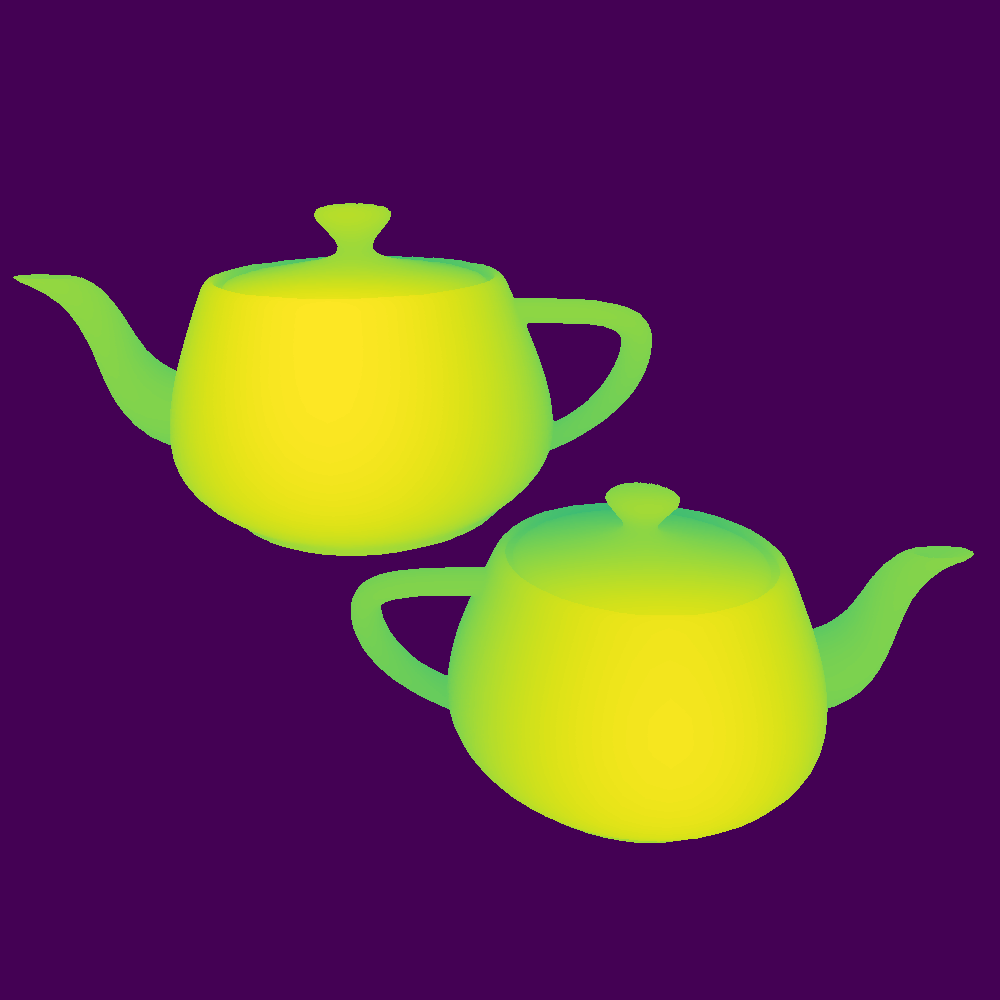
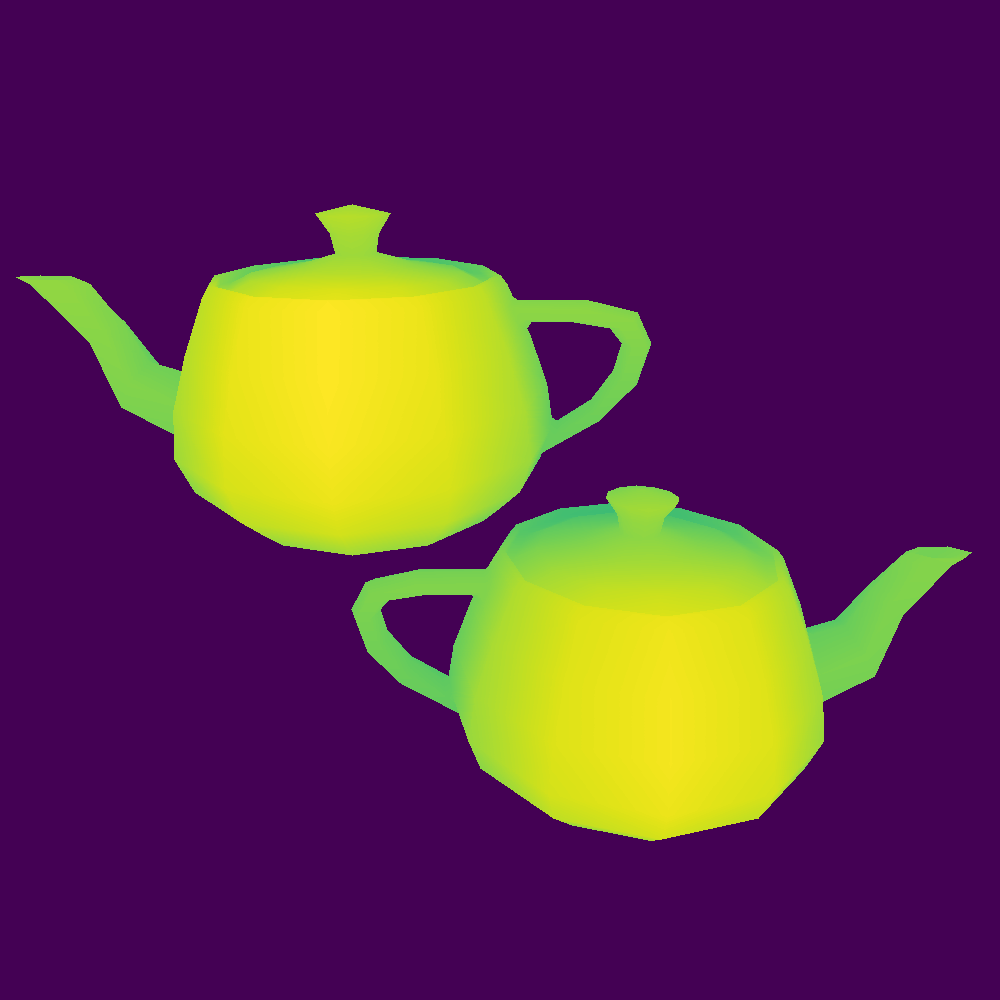
Lighting

diff --git a/objects.py b/objects.py
@@ -511,21 +511,67 @@ class PointLight:
     intensity : float | Brightness multiplier
     """
 
-    def __init__(self, pos, ambient, diffuse, specular=[1, 1, 1], intensity:float=1):
+    def __init__(self, pos, ambient, diffuse, specular=[1, 1, 1], intensity:float=1, kq=0.0019, kc=1.0, kl=0.002):
         self.specular = np.array(specular)
         self.diffuse = np.array(diffuse)
         self.ambient = np.array(ambient)
         self.pos = pos
         self.intensity = intensity
+        self.kq = kq
+        self.kc = kc
+        self.kl = kl
+        
+    def get_illumination(self, mat, camera, point, normal):
+        # Ambient
+        ambient = np.multiply(mat.ambient, self.ambient)
+
+        # Diffuse
+        light_dir = normalize(self.pos - point)
+        diffuse = np.multiply(
+            np.multiply(mat.diffuse, self.diffuse),
+            max(np.dot(normal, light_dir), 0)
+        )
+
+        # Specular (Blinn-Phong)
+        view_dir = normalize(camera.pos - point)
+        H = normalize(light_dir + view_dir)  # Halfway vector
+        specular = np.multiply(
+            np.multiply(mat.specular, self.specular),
+            max(np.dot(normal, H), 0) ** mat.shininess
+        )
+        
+        d = np.linalg.norm(self.pos - point)
+        attenuation = 1.0 / (self.kc + self.kl * d + self.kq * d**2)
+        return (ambient + diffuse + specular) * attenuation * self.intensity 
 
 class DirectionalLight:
     
     def __init__(self, dir, ambient, diffuse, specular=[1, 1, 1], intensity:float=1):
-        self.specular = np.array(specular)
-        self.diffuse = np.array(diffuse)
-        self.ambient = np.array(ambient)
-        self.dir = dir
+        self.specular  = np.array(specular)
+        self.diffuse   = np.array(diffuse)
+        self.ambient   = np.array(ambient)
+        self.dir       = dir
         self.intensity = intensity
+        
+    def get_illumination(self, mat, camera, point, normal):
+        # Ambient
+        ambient = np.multiply(mat.ambient, self.ambient)
+
+        # Diffuse
+        light_dir = normalize(self.pos - point)
+        diffuse = np.multiply(
+            np.multiply(mat.diffuse, self.diffuse),
+            max(np.dot(normal, light_dir), 0)
+        )
+
+        # Specular (Blinn-Phong)
+        view_dir = normalize(camera.pos - point)
+        H = normalize(light_dir + view_dir)  # Halfway vector
+        specular = np.multiply(
+            np.multiply(mat.specular, self.specular),
+            max(np.dot(normal, H), 0) ** mat.shininess
+        )
+        return ambient + diffuse + specular
         
 class ConeLight:
     

diff --git a/materials.py b/materials.py
@@ -242,33 +242,14 @@ class LitMaterial(Material):
         
 
     def get_pixel(self, image, data_buffer, x, y, camera, clip=True) -> np.ndarray:
-        """Return the flat colour using the Blinn-Phong illumination model."""
         normal = self.get_normal(data_buffer, x, y)
         point = self.get_world_pos(data_buffer, x, y, camera)
-        normalize = lambda v: v / np.linalg.norm(v)
 
         illumination = np.zeros((3))
         for light in self.lights:
-            # Ambient
-            ambient = np.multiply(self.ambient, light.ambient)
-
-            # Diffuse
-            light_dir = normalize(light.pos - point)
-            diffuse = np.multiply(
-                np.multiply(self.diffuse, light.diffuse),
-                max(np.dot(normal, light_dir), 0)
-            )
-
-            # Specular (Blinn-Phong)
-            view_dir = normalize(camera.pos - point)
-            H = normalize(light_dir + view_dir)  # Halfway vector
-            specular = np.multiply(
-                np.multiply(self.specular, light.specular),
-                max(np.dot(normal, H), 0) ** self.shininess
-            )
             
             # Attenuation 
-            illumination += ambient + diffuse + specular
+            illumination += light.get_illumination(self, camera, normal, point)
 
         if clip:
             return np.clip(illumination, 0, 1)
@@ -285,7 +266,7 @@ class LitTexture (LitMaterial):
     def get_pixel(self, image, data_buffer, x, y, camera):
         color = super().get_pixel(image, data_buffer, x, y, camera, False)
         u, v = self.get_uv(data_buffer, x, y)
-        return np.clip(np.multiply(self.atlas.sample(u, v)[:3], color))
+        return np.clip(np.multiply(self.atlas.sample(u, v)[:3], color), 0, 1)
         
 #——————————[ POST PROCESS MATERIALS ]———————————————————————————————————————————————————————————————————————————————————
 

diff --git a/main.py b/main.py
@@ -6,7 +6,7 @@ from time import time
 
 grid_atlas = Atlas(pyplot.imread("grid.png"))
 crate_atlas = Atlas(pyplot.imread("crate.png"))
-teapot = load_obj('models/utah_teapot.obj', smooth_shading=True)
+teapot = load_obj('models/utah_teapot_reso3.obj', smooth_shading=True)
 
 #——————————[ SCENE SETUP ]———————————————————————————————————————————————————————————————————————————————————————————————
 
@@ -57,11 +57,11 @@ viewport = Viewport(objects, camera, perspective_projection)
 t = time()
 
 print("Rendering wireframe:")
-pyplot.imsave("img/image_wireframe.png", render_wireframe(viewport, 2000, 2000))
+pyplot.imsave("img/image_wireframe.png", render_wireframe(viewport, 4000, 4000))
 print(f"Done — saved wireframe.png in {time() - t:.3f} seconds")
 
 print("Rendering image:")
-r, d_b = render(viewport, 1000, 1000, post_process)
+r, d_b = render(viewport, 1000, 1000)
 
 # Build a UV visualisation image from G-buffer channels 4 and 5
 uv = np.zeros((len(d_b), len(d_b[0]), 3))
